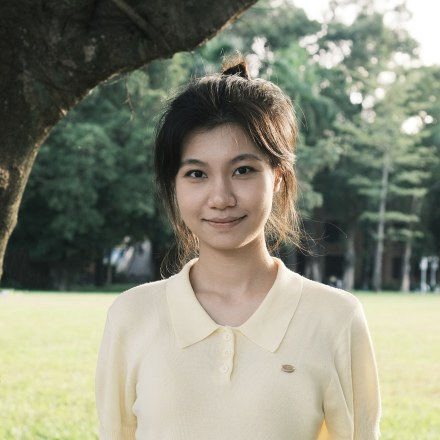
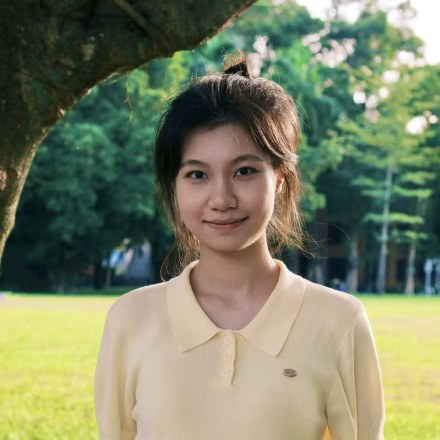
Publications: add paper first-page covers to Landmark cards; update 曾思熹 photo

diff --git a/publications.html b/publications.html
@@ -17,7 +17,7 @@
 <link rel="preconnect" href="https://fonts.googleapis.com">
 <link href="https://fonts.googleapis.com/css2?family=Inter:wght@400;500;600;700;800&display=swap" rel="stylesheet">
 <script>try{document.documentElement.setAttribute("data-theme",localStorage.getItem("wl-theme")||"dark")}catch(e){}</script>
-<link rel="stylesheet" href="assets/css/site.css?v=20260621-polish38">
+<link rel="stylesheet" href="assets/css/site.css?v=20260621-polish39">
 </head>
 <body>
 
@@ -68,32 +68,32 @@
     </div>
     <div class="landmark-grid">
       <a class="landmark-card" href="https://doi.org/10.1016/S0140-6736(18)32607-2" target="_blank" rel="noopener">
-        <span class="landmark-card__top"><span class="pub-tag pub-tag--zap">ZAP</span><span class="landmark-card__jrnl">Lancet &middot; 2019</span></span>
+        <span class="landmark-card__cover"><img src="images/papers/zap-lancet-2019.jpg" alt="" loading="lazy"></span><span class="landmark-card__top"><span class="pub-tag pub-tag--zap">ZAP</span><span class="landmark-card__jrnl">Lancet &middot; 2019</span></span>
         <span class="landmark-card__title">Laser peripheral iridotomy for the prevention of angle closure: a single-centre, randomised controlled trial.</span>
         <span class="landmark-card__go" data-zh="阅读全文 &rarr;">Read paper &rarr;</span>
       </a>
       <a class="landmark-card" href="https://doi.org/10.1038/s41467-025-66979-z" target="_blank" rel="noopener">
-        <span class="landmark-card__top"><span class="pub-tag pub-tag--gdes">GDES</span><span class="landmark-card__jrnl">Nat Commun &middot; 2025</span></span>
+        <span class="landmark-card__cover"><img src="images/papers/gdes-natcommun-2025a.jpg" alt="" loading="lazy"></span><span class="landmark-card__top"><span class="pub-tag pub-tag--gdes">GDES</span><span class="landmark-card__jrnl">Nat Commun &middot; 2025</span></span>
         <span class="landmark-card__title">Artificial intelligence-driven metabolomics of retinal nerve fibre layer to profile risks of mortality and cardiometabolic diseases.</span>
         <span class="landmark-card__go" data-zh="阅读全文 &rarr;">Read paper &rarr;</span>
       </a>
       <a class="landmark-card" href="https://doi.org/10.1016/j.ophtha.2024.05.015" target="_blank" rel="noopener">
-        <span class="landmark-card__top"><span class="pub-tag pub-tag--zhmc">ZHMC</span><span class="landmark-card__jrnl">Ophthalmology &middot; 2024</span></span>
+        <span class="landmark-card__cover"><img src="images/papers/zhmc-ophthalmology-2024.jpg" alt="" loading="lazy"></span><span class="landmark-card__top"><span class="pub-tag pub-tag--zhmc">ZHMC</span><span class="landmark-card__jrnl">Ophthalmology &middot; 2024</span></span>
         <span class="landmark-card__title">Myopia Control Effect of Repeated Low-Level Red-Light Therapy Combined with Orthokeratology.</span>
         <span class="landmark-card__go" data-zh="阅读全文 &rarr;">Read paper &rarr;</span>
       </a>
       <a class="landmark-card" href="https://doi.org/10.1001/jamaophthalmol.2025.6067" target="_blank" rel="noopener">
-        <span class="landmark-card__top"><span class="pub-tag pub-tag--zap">ZAP</span><span class="landmark-card__jrnl">JAMA Ophthalmol &middot; 2026</span></span>
+        <span class="landmark-card__cover"><img src="images/papers/zap-jama-2026.jpg" alt="" loading="lazy"></span><span class="landmark-card__top"><span class="pub-tag pub-tag--zap">ZAP</span><span class="landmark-card__jrnl">JAMA Ophthalmol &middot; 2026</span></span>
         <span class="landmark-card__title">Iris Trabecular Contact on OCT in Angle Closure Progression.</span>
         <span class="landmark-card__go" data-zh="阅读全文 &rarr;">Read paper &rarr;</span>
       </a>
       <a class="landmark-card" href="https://doi.org/10.1038/s41467-024-55035-x" target="_blank" rel="noopener">
-        <span class="landmark-card__top"><span class="pub-tag pub-tag--gdes">GDES</span><span class="landmark-card__jrnl">Nat Commun &middot; 2025</span></span>
+        <span class="landmark-card__cover"><img src="images/papers/gdes-natcommun-2025b.jpg" alt="" loading="lazy"></span><span class="landmark-card__top"><span class="pub-tag pub-tag--gdes">GDES</span><span class="landmark-card__jrnl">Nat Commun &middot; 2025</span></span>
         <span class="landmark-card__title">Photoreceptor metabolic window unveils eye-body interactions.</span>
         <span class="landmark-card__go" data-zh="阅读全文 &rarr;">Read paper &rarr;</span>
       </a>
       <a class="landmark-card" href="https://doi.org/10.1001/jamaophthalmol.2023.5835" target="_blank" rel="noopener">
-        <span class="landmark-card__top"><span class="pub-tag pub-tag--zhmc">ZHMC</span><span class="landmark-card__jrnl">JAMA Ophthalmol &middot; 2024</span></span>
+        <span class="landmark-card__cover"><img src="images/papers/zhmc-jama-2024.jpg" alt="" loading="lazy"></span><span class="landmark-card__top"><span class="pub-tag pub-tag--zhmc">ZHMC</span><span class="landmark-card__jrnl">JAMA Ophthalmol &middot; 2024</span></span>
         <span class="landmark-card__title">Axial Elongation Trajectories in Chinese Children and Adults With High Myopia.</span>
         <span class="landmark-card__go" data-zh="阅读全文 &rarr;">Read paper &rarr;</span>
       </a>
@@ -838,6 +838,6 @@
   </div>
 </footer>
 
-<script src="assets/js/site.js?v=20260621-polish38"></script>
+<script src="assets/js/site.js?v=20260621-polish39"></script>
 </body>
 </html>

diff --git a/team.html b/team.html
@@ -17,7 +17,7 @@
 <link rel="preconnect" href="https://fonts.googleapis.com">
 <link href="https://fonts.googleapis.com/css2?family=Inter:wght@400;500;600;700;800&display=swap" rel="stylesheet">
 <script>try{document.documentElement.setAttribute("data-theme",localStorage.getItem("wl-theme")||"dark")}catch(e){}</script>
-<link rel="stylesheet" href="assets/css/site.css?v=20260621-polish38">
+<link rel="stylesheet" href="assets/css/site.css?v=20260621-polish39">
 </head>
 <body>
 
@@ -310,7 +310,7 @@
         <div class="team-member__role" data-zh="硕士研究生">Master's Student</div>
       </div>
       <div class="team-member">
-        <div class="team-member__avatar"><img src="images/team/zengsixi.jpg?v=3" alt=""></div>
+        <div class="team-member__avatar"><img src="images/team/zengsixi.jpg?v=6" alt=""></div>
         <div class="team-member__name" data-zh="曾思熹">Sixi Zeng</div>
         <div class="team-member__role" data-zh="硕士研究生">Master's Student</div>
       </div>
@@ -478,6 +478,6 @@
   </div>
 </footer>
 
-<script src="assets/js/site.js?v=20260621-polish38"></script>
+<script src="assets/js/site.js?v=20260621-polish39"></script>
 </body>
 </html>

diff --git a/assets/css/site.css b/assets/css/site.css
@@ -1091,3 +1091,9 @@ html[data-theme="light"] .news-tile{box-shadow:0 8px 22px rgba(22,32,46,.12);bor
 .lightbox__prev{left:18px}
 .lightbox__next{right:18px}
 @media(max-width:560px){.lightbox__nav{width:42px;height:42px;font-size:1.5rem}.lightbox__prev{left:8px}.lightbox__next{right:8px}}
+
+/* ===== Landmark paper covers ===== */
+.landmark-card__cover{display:block;width:calc(100% + 44px);margin:-20px -22px 4px;aspect-ratio:1.55;overflow:hidden;border-radius:var(--radius) var(--radius) 0 0;background:#0e1c30;border-bottom:1px solid var(--border-sub)}
+.landmark-card__cover img{width:100%;height:100%;object-fit:cover;object-position:top center;display:block;transition:transform .45s ease}
+.landmark-card:hover .landmark-card__cover img{transform:scale(1.035)}
+html[data-theme="light"] .landmark-card__cover{background:#eef1f5;border-bottom-color:rgba(22,32,46,.1)}

diff --git a/cohorts.html b/cohorts.html
@@ -17,7 +17,7 @@
 <link rel="preconnect" href="https://fonts.googleapis.com">
 <link href="https://fonts.googleapis.com/css2?family=Inter:wght@400;500;600;700;800&display=swap" rel="stylesheet">
 <script>try{document.documentElement.setAttribute("data-theme",localStorage.getItem("wl-theme")||"dark")}catch(e){}</script>
-<link rel="stylesheet" href="assets/css/site.css?v=20260621-polish38">
+<link rel="stylesheet" href="assets/css/site.css?v=20260621-polish39">
 <style>
 /* Cohort page extras */
 .cohort-overview{display:grid;grid-template-columns:repeat(3,minmax(0,1fr));gap:18px;margin-bottom:2.5rem}
@@ -427,6 +427,6 @@
   }
 })();
 </script>
-<script src="assets/js/site.js?v=20260621-polish38"></script>
+<script src="assets/js/site.js?v=20260621-polish39"></script>
 </body>
 </html>

diff --git a/index.html b/index.html
@@ -17,7 +17,7 @@
 <link rel="preconnect" href="https://fonts.googleapis.com">
 <link href="https://fonts.googleapis.com/css2?family=Inter:wght@400;500;600;700;800&display=swap" rel="stylesheet">
 <script>try{document.documentElement.setAttribute("data-theme",localStorage.getItem("wl-theme")||"dark")}catch(e){}</script>
-<link rel="stylesheet" href="assets/css/site.css?v=20260621-polish38">
+<link rel="stylesheet" href="assets/css/site.css?v=20260621-polish39">
 <script type="application/ld+json">
 {
   "@context": "https://schema.org",
@@ -413,4 +413,4 @@
   </div>
 </footer>
 
-<script src="assets/js/site.js?v=20260621-polish38"></script>
+<script src="assets/js/site.js?v=20260621-polish39"></script>

diff --git a/contact.html b/contact.html
@@ -17,7 +17,7 @@
 <link rel="preconnect" href="https://fonts.googleapis.com">
 <link href="https://fonts.googleapis.com/css2?family=Inter:wght@400;500;600;700;800&display=swap" rel="stylesheet">
 <script>try{document.documentElement.setAttribute("data-theme",localStorage.getItem("wl-theme")||"dark")}catch(e){}</script>
-<link rel="stylesheet" href="assets/css/site.css?v=20260621-polish38">
+<link rel="stylesheet" href="assets/css/site.css?v=20260621-polish39">
 </head>
 <body>
 
@@ -157,6 +157,6 @@
   </div>
 </footer>
 
-<script src="assets/js/site.js?v=20260621-polish38"></script>
+<script src="assets/js/site.js?v=20260621-polish39"></script>
 </body>
 </html>

diff --git a/data_access.html b/data_access.html
@@ -17,7 +17,7 @@
 <link rel="preconnect" href="https://fonts.googleapis.com">
 <link href="https://fonts.googleapis.com/css2?family=Inter:wght@400;500;600;700;800&display=swap" rel="stylesheet">
 <script>try{document.documentElement.setAttribute("data-theme",localStorage.getItem("wl-theme")||"dark")}catch(e){}</script>
-<link rel="stylesheet" href="assets/css/site.css?v=20260621-polish38">
+<link rel="stylesheet" href="assets/css/site.css?v=20260621-polish39">
 </head>
 <body>
 
@@ -206,6 +206,6 @@
   </div>
 </footer>
 
-<script src="assets/js/site.js?v=20260621-polish38"></script>
+<script src="assets/js/site.js?v=20260621-polish39"></script>
 </body>
 </html>

diff --git a/news.html b/news.html
@@ -17,7 +17,7 @@
 <link rel="preconnect" href="https://fonts.googleapis.com">
 <link href="https://fonts.googleapis.com/css2?family=Inter:wght@400;500;600;700;800&display=swap" rel="stylesheet">
 <script>try{document.documentElement.setAttribute("data-theme",localStorage.getItem("wl-theme")||"dark")}catch(e){}</script>
-<link rel="stylesheet" href="assets/css/site.css?v=20260621-polish38">
+<link rel="stylesheet" href="assets/css/site.css?v=20260621-polish39">
 </head>
 <body>
 
@@ -118,6 +118,6 @@
   </div>
 </footer>
 
-<script src="assets/js/site.js?v=20260621-polish38"></script>
+<script src="assets/js/site.js?v=20260621-polish39"></script>
 </body>
 </html>
